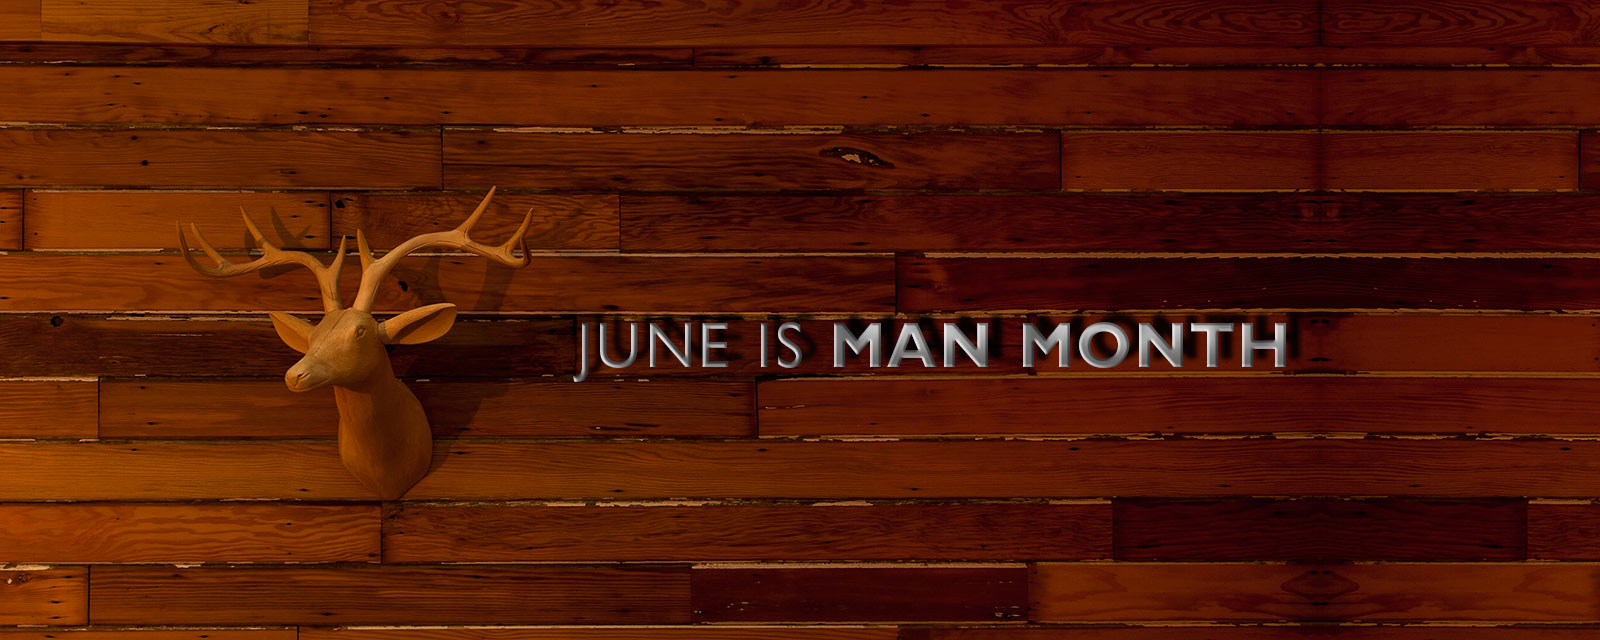
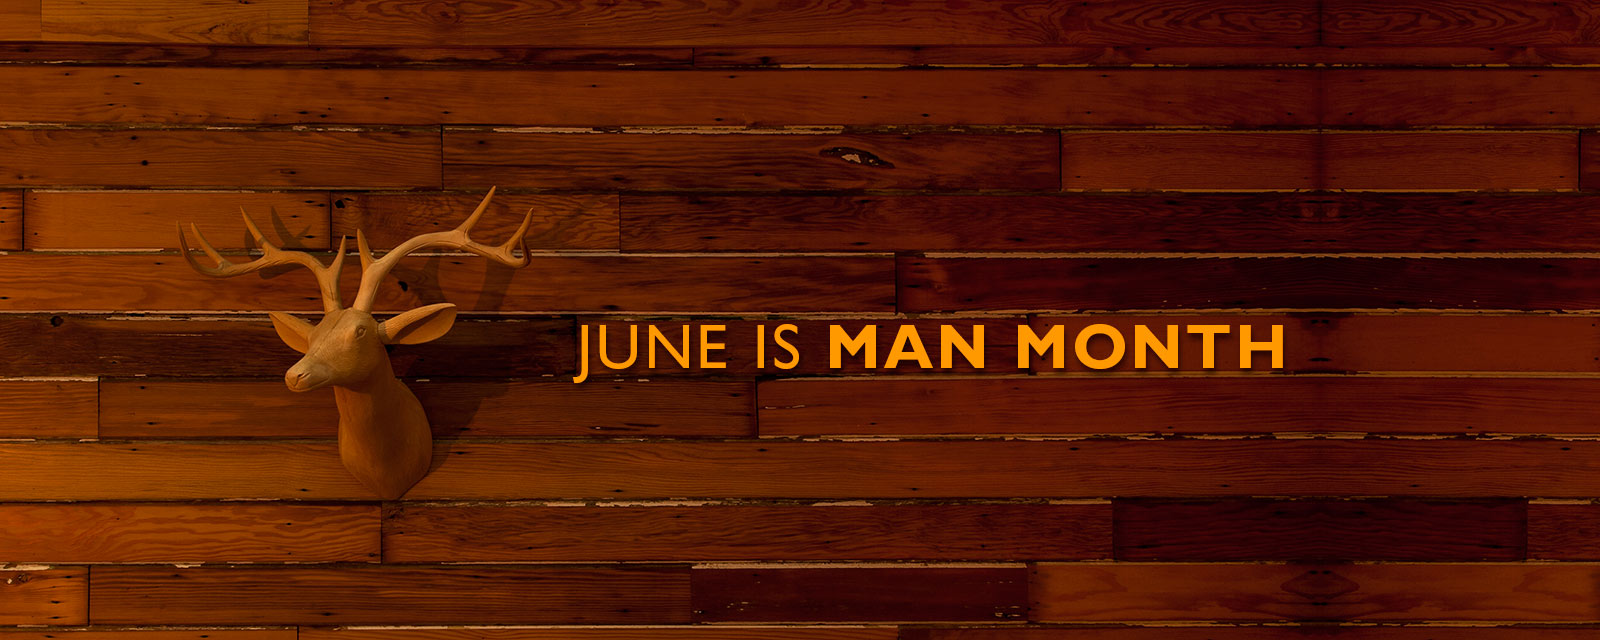
June calendar update

Changed region(s): [[0.3438, 0.4688, 0.8125, 0.5938]]

diff --git a/hana/travaasa-hana-experiences/index.php b/hana/travaasa-hana-experiences/index.php
@@ -31,7 +31,7 @@ j=d.createElement(s),dl=l!='dataLayer'?'&l='+l:'';j.async=true;j.src=
    include_once($path."/Library/Travaasa_Menu_Hana.php");
 ?><section id="feature1_wrapper" class="feature_carousel sub_feature clearfix">
 	<div id="feature1" class="feature">
-      <div class="slide"><a href="/calendar/"><img data-original="/assets/images/feature_months_may_2014_1600x640_hana_promo.jpg" src="/assets/images/global/placeholder.gif" alt=""></a></div>
+      <div class="slide"><a href="/calendar/"><img data-original="/assets/images/feature_months_june_2014_1600x640_promo.jpg" src="/assets/images/global/placeholder.gif" alt=""></a></div>
       <div class="slide"><a href="/hana/promotions/"><img data-original="/assets/images/feature_hana_1600x640_flights_promo.jpg" src="/assets/images/global/placeholder.gif" alt=""></a></div>
     </div>
     <a class="carousel_prev" id="feature1_prev" href="#"><span><b>prev</b></span></a>
@@ -46,7 +46,7 @@ j=d.createElement(s),dl=l!='dataLayer'?'&l='+l:'';j.async=true;j.src=
 <br><br>
 While you are with us, you will enjoy our inimitable hospitality and beauty of place, and the comforts of everything you've come to expect from a Travaasa experience: our healing and pampering spa, authentic Hawaiian pursuits (lei making, ‘ukulele, hula, snorkeling, throw net fishing, opening a coconut, enjoying local gardens and guides who will share their knowledge of ecology and culture with you), a pool with an ocean view unlike any other, outdoor yoga, so you can experience all of life—while here, we're taking you on a further journey to self, to recognition, to life, to the real Hawai'i.
 <br><br>
-And one way to do this is through our diverse course offerings we call "Travaasas." We offer five different pathways for you to explore: <a href="#adventure" class="scroll">Adventure</a>, <a href="#culinary" class="scroll">Culinary</a>, <a href="#culture" class="scroll">Culture</a>, <a href="#fitness" class="scroll">Fitness</a> and <a href="#spa" class="scroll">Spa &amp; Wellness</a>. You won't have any trouble finding something unique.<br><br><a href="/hana/hanaschedule" class="btn">View Experience Schedule</a><br><br><a href="/calendar" class="btn">May's Featured Experiences</a></p>
+And one way to do this is through our diverse course offerings we call "Travaasas." We offer five different pathways for you to explore: <a href="#adventure" class="scroll">Adventure</a>, <a href="#culinary" class="scroll">Culinary</a>, <a href="#culture" class="scroll">Culture</a>, <a href="#fitness" class="scroll">Fitness</a> and <a href="#spa" class="scroll">Spa &amp; Wellness</a>. You won't have any trouble finding something unique.<br><br><a href="/hana/hanaschedule" class="btn">View Experience Schedule</a><br><br><a href="/calendar" class="btn">June's Featured Experiences</a></p>
       </div>
       <div class="pricing_grp col span_3_of_9"><?php include_once($path."/Library/Travaasa_Hana_Pricing.php"); ?></div>
   </section>

diff --git a/austin/austin-experiences/index.php b/austin/austin-experiences/index.php
@@ -31,7 +31,7 @@ j=d.createElement(s),dl=l!='dataLayer'?'&l='+l:'';j.async=true;j.src=
    include_once($path."/Library/Travaasa_Menu_Austin.php");
 ?><section id="feature1_wrapper" class="feature_carousel sub_feature clearfix">
 	<div id="feature1" class="feature">
-      <div class="slide"><a href="/calendar/"><img data-original="/assets/images/feature_months_may_2014_1600x640_austin_promo.jpg" src="/assets/images/global/placeholder.gif" alt=""></a></div>
+      <div class="slide"><a href="/calendar/"><img data-original="/assets/images/feature_months_june_2014_1600x640_promo.jpg" src="/assets/images/global/placeholder.gif" alt=""></a></div>
     </div>
     <a class="carousel_prev" id="feature1_prev" href="#" style="display:none"><span><b>prev</b></span></a>
     <a class="carousel_next" id="feature1_next" href="#" style="display:none"><span><b>next</b></span></a>
@@ -42,7 +42,7 @@ j=d.createElement(s),dl=l!='dataLayer'?'&l='+l:'';j.async=true;j.src=
       <div class="col span_6_of_9">
           <h1>Travaasa Austin Experiences</h1>
           <p>You want to embark on a journey without living out of a suitcase. You want to taste real Texas flavors, learn a few new things about yourself, and dance the night away under a banner of stars. <strong>Why not stay at a resort that allows you to have all of these things?</strong> At Travaasa Austin, we get it, and that’s why we created a menu of custom, personalized and authentic experiences just for you. Situated on the edge of the Balcones Canyonlands Preserve, Travaasa Austin offers an extensive selection of guided activities set amidst — and inspired by — the rugged yet hospitable nature of Texas Hill Country.</p>
-<p>Experiences are offered through all-inclusive packages as well as a la carte pricing, depending on the path you choose. See our <a href="/austin/rates-and-packages">rates and packages</a> for details.<br><br><a href="/austin/austinschedule" class="btn">View Experience Schedule</a><br><br><a href="/calendar" class="btn">May's Featured Experiences</a></p>
+<p>Experiences are offered through all-inclusive packages as well as a la carte pricing, depending on the path you choose. See our <a href="/austin/rates-and-packages">rates and packages</a> for details.<br><br><a href="/austin/austinschedule" class="btn">View Experience Schedule</a><br><br><a href="/calendar" class="btn">June's Featured Experiences</a></p>
       </div>
       <div class="pricing_grp col span_3_of_9"><?php include_once($path."/Library/Travaasa_Austin_Pricing.php"); ?></div>
   </section>

diff --git a/calendar/index.php b/calendar/index.php
@@ -1,5 +1,5 @@
 <?php
-$base = "/calendar/2014/may/";
+$base = "/calendar/2014/june/";
 $referrer = $_SERVER["HTTP_REFERER"];
 if (strlen($referrer) <= 0)
 	$referrer = "blank";
